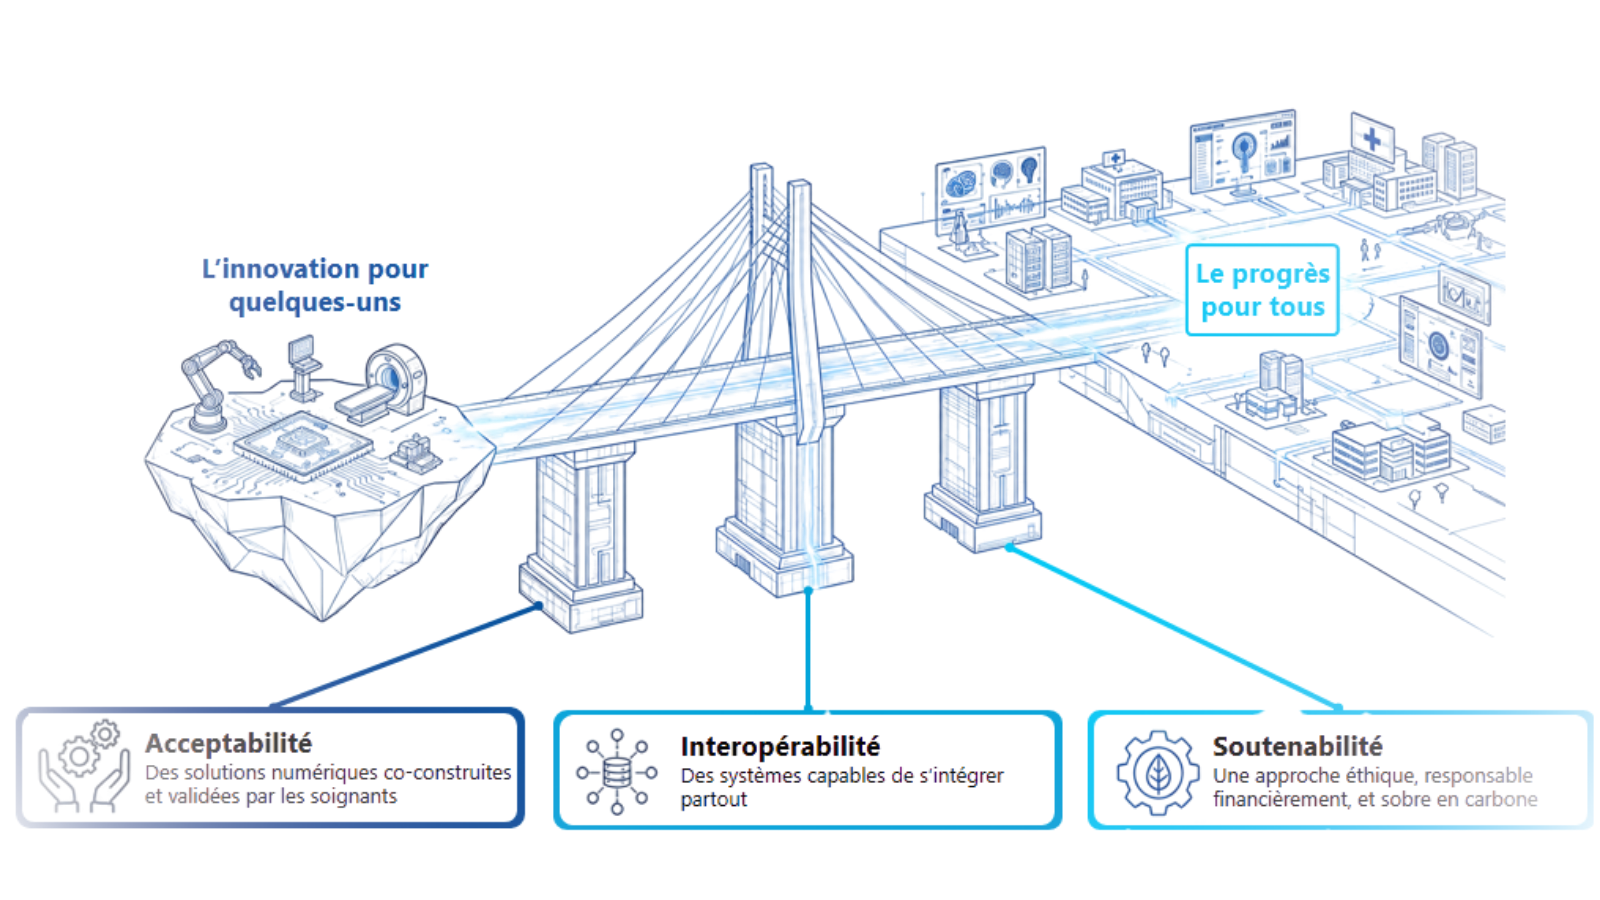
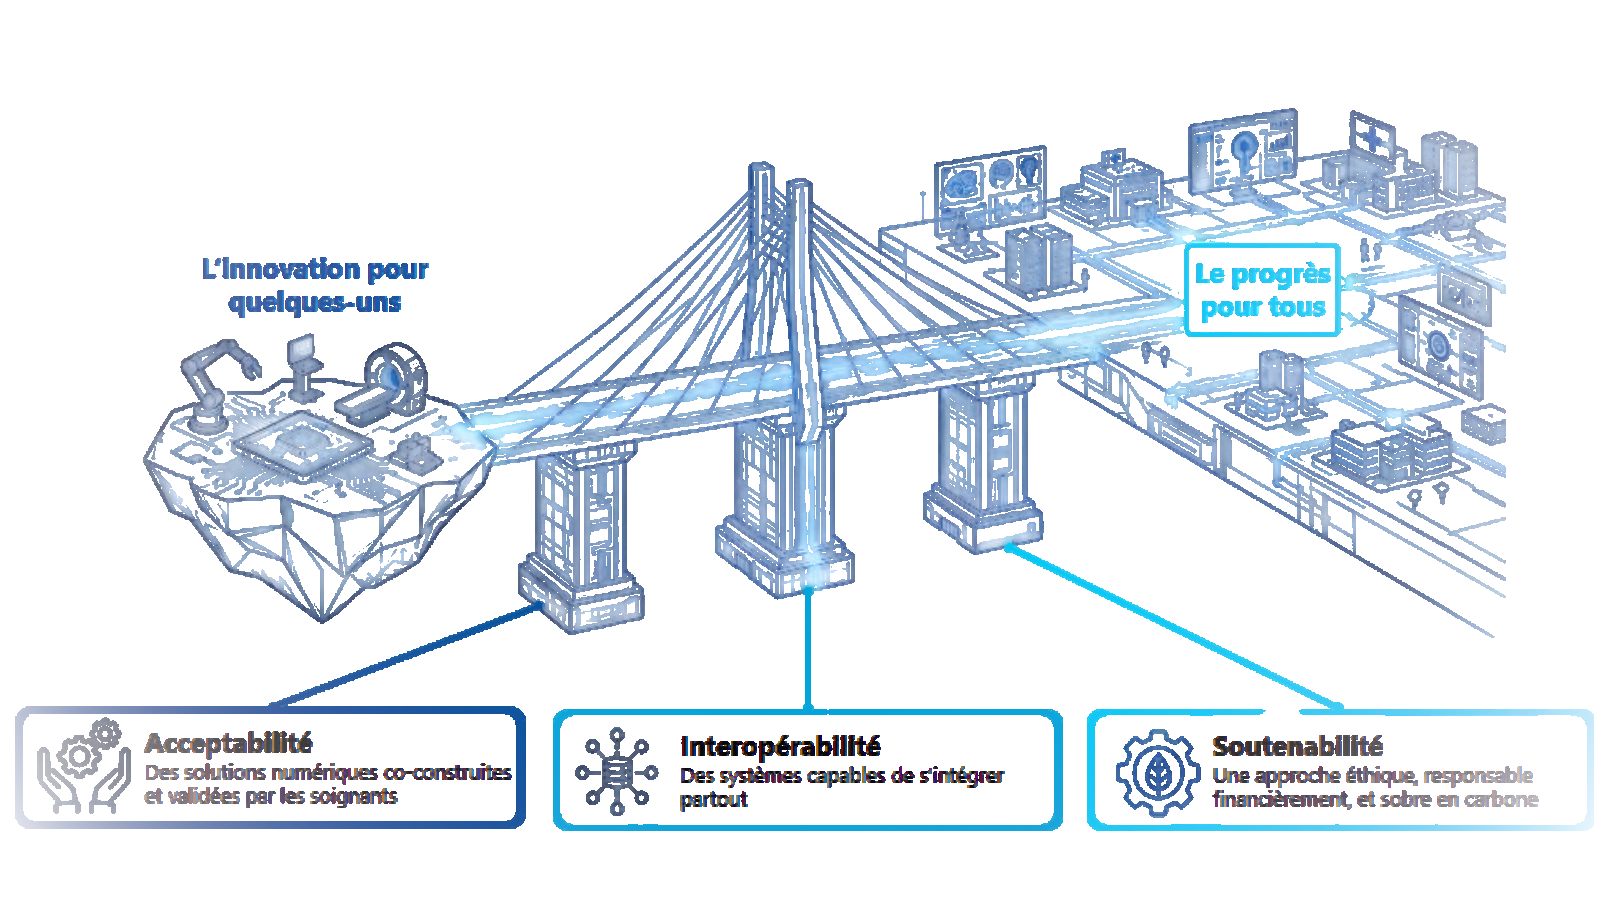
Fix vision diagram alpha fade, small copy/layout changes, batch of mobile bugs
- Vision diagram: thresholded the alpha channel so partially-transparent
  pixels become fully opaque (removes a genuine transparency-based fade
  baked into the PNG). The remaining paleness on the "progrès pour tous"
  side is the artwork's own color choice, not something CSS or alpha
  can fix without redrawing it.
- Homepage: "En savoir plus : tous nos projets, phase par phase" ->
  "Voir tous nos projets"; removed the "Découvrir l'équipe" button
  (and its now-dead .link-arrow CSS).
- Projects page: intro text and phases diagram now side by side instead
  of stacked (collapses to stacked below 40rem).

Mobile bug batch:
- Nav dropdown panels never actually opened on any viewport - the
  mobile media query overriding them sat BEFORE the unconditional base
  rule in source order, so the later same-specificity base rule always
  won (the exact "late CSS wins ties" trap already documented). Moved
  the media query after the base rules it needs to override.
- Homepage background gradient used desktop-only fixed-px anchors
  (664px/3700px); on mobile the opaque hero+stat-band zone is actually
  ~1066px tall and #equipe starts around ~6098px, so the ramp was
  already ~13% into blue before any content was visible - added a
  mobile-specific re-anchored gradient (1080px/5950px).
- h1 and .stat-value used fixed sizes (var(--text-2xl), 52px) with no
  mobile scaling - h1 ended up smaller than h2 on phones, and stat
[…]

diff --git a/site/src/styles/site.css b/site/src/styles/site.css
@@ -95,6 +95,25 @@ main {
   );
 }
 
+/* Same gradient, re-anchored for mobile: the hero's text and the stat
+   band both wrap onto more lines on a narrow screen, so the opaque zone
+   at the top is taller (~1066px measured at 375px wide, not 664px) and
+   #equipe starts much further down (~6098px, not ~3786px) since every
+   section stacks single-column instead of side-by-side. Reusing the
+   desktop anchors left the ramp already ~13% into blue before any
+   content was even visible, reading as "gradient too dark" on phones.
+   Re-measure both anchors here if mobile section heights change. */
+@media (max-width: 40rem) {
+  main {
+    background: linear-gradient(
+      180deg,
+      #ffffff 0px,
+      #ffffff 1080px,
+      color-mix(in srgb, var(--bopa-blue-2) 35%, white) 5950px
+    );
+  }
+}
+
 h1, h2, h3 {
   font-family: var(--font-display);
   line-height: 1.05;
@@ -103,7 +122,13 @@ h1, h2, h3 {
   margin-bottom: var(--space-3);
 }
 
-h1 { font-size: var(--text-2xl); }
+/* --text-2xl (3.25rem) is a flat value, not a clamp like --text-xl -
+   fine on desktop, but with no floor it stayed a fixed 52px right down
+   to phone width on every page using the plain h1 (innovations,
+   boptech, publications - the homepage's own .hero h1 already has its
+   own clamp). clamp() here keeps desktop identical (6vw already exceeds
+   3.25rem above ~866px) and only scales the phone/tablet range down. */
+h1 { font-size: clamp(2rem, 6vw, var(--text-2xl)); }
 h2 { font-size: var(--text-xl); }
 h3 { font-size: var(--text-lg); }
 
@@ -285,64 +310,6 @@ button {
   transform: translateY(-7px) rotate(-45deg);
 }
 
-/* Full nav row only fits one line down to ~76rem in practice (5 links +
-   the "Nos innovations" dropdown trigger + the CTA button); below that
-   it used to wrap onto 2-3 lines and bloat the header - on a phone it
-   wrapped onto 7 lines and pushed the header past 300px tall. Collapse
-   behind a hamburger for that whole range instead of letting it wrap. */
-@media (max-width: 76rem) {
-  .nav-toggle {
-    display: flex;
-  }
-
-  .site-header nav {
-    display: none;
-    position: absolute;
-    top: 100%;
-    left: 0;
-    right: 0;
-    flex-direction: column;
-    align-items: stretch;
-    gap: 2px;
-    background: #fff;
-    padding: var(--space-3) var(--space-4) var(--space-4);
-    box-shadow: 0 20px 40px rgba(4, 35, 56, 0.14);
-    max-height: calc(100vh - 100%);
-    overflow-y: auto;
-  }
-
-  .site-header nav.is-open {
-    display: flex;
-  }
-
-  .site-header nav > a,
-  .nav-dropdown-trigger {
-    width: 100%;
-    justify-content: flex-start;
-  }
-
-  .nav-dropdown-panel {
-    position: static;
-    box-shadow: none;
-    margin-top: 0;
-    padding-left: var(--space-3);
-    opacity: 1;
-    visibility: visible;
-    transform: none;
-    transition: none;
-    max-height: 0;
-    overflow: hidden;
-    padding-top: 0;
-    padding-bottom: 0;
-  }
-
-  .nav-dropdown.is-open .nav-dropdown-panel {
-    max-height: 20rem;
-    padding-top: var(--space-1);
-    padding-bottom: var(--space-1);
-  }
-}
-
 .site-header nav > a,
 .nav-dropdown-trigger {
   display: inline-flex;
@@ -433,6 +400,68 @@ button {
 .nav-dropdown-panel a:hover {
   background: var(--color-bg-tint);
   color: var(--color-accent);
+}
+
+/* Full nav row only fits one line down to ~76rem in practice (5 links +
+   the "Nos innovations" dropdown trigger + the CTA button); below that
+   it used to wrap onto 2-3 lines and bloat the header - on a phone it
+   wrapped onto 7 lines and pushed the header past 300px tall. Collapse
+   behind a hamburger for that whole range instead of letting it wrap.
+   This block must come AFTER the base .nav-dropdown-panel rules above -
+   it previously sat before them, so the later, unconditional base rule
+   (same specificity) silently won the cascade at every width and the
+   mobile dropdown panels never actually became visible when opened. */
+@media (max-width: 76rem) {
+  .nav-toggle {
+    display: flex;
+  }
+
+  .site-header nav {
+    display: none;
+    position: absolute;
+    top: 100%;
+    left: 0;
+    right: 0;
+    flex-direction: column;
+    align-items: stretch;
+    gap: 2px;
+    background: #fff;
+    padding: var(--space-3) var(--space-4) var(--space-4);
+    box-shadow: 0 20px 40px rgba(4, 35, 56, 0.14);
+    max-height: calc(100vh - 100%);
+    overflow-y: auto;
+  }
+
+  .site-header nav.is-open {
+    display: flex;
+  }
+
+  .site-header nav > a,
+  .nav-dropdown-trigger {
+    width: 100%;
+    justify-content: flex-start;
+  }
+
+  .nav-dropdown-panel {
+    position: static;
+    box-shadow: none;
+    margin-top: 0;
+    padding-left: var(--space-3);
+    opacity: 1;
+    visibility: visible;
+    transform: none;
+    transition: none;
+    max-height: 0;
+    overflow: hidden;
+    padding-top: 0;
+    padding-bottom: 0;
+  }
+
+  .nav-dropdown.is-open .nav-dropdown-panel {
+    max-height: 20rem;
+    padding-top: var(--space-1);
+    padding-bottom: var(--space-1);
+  }
 }
 
 /* Couleur/animation : .btn-filled-premium, partagée avec le hero.
@@ -803,6 +832,7 @@ button {
   color: var(--color-muted);
   font-size: var(--text-sm);
   margin-top: var(--space-1);
+  text-align: center;
 }
 
 /* Auto-advancing project carousel: one project at a time, tagged by
@@ -932,7 +962,7 @@ button {
 
 .stat-row .stat-value {
   font-family: var(--font-display);
-  font-size: var(--text-2xl);
+  font-size: clamp(2rem, 6vw, var(--text-2xl));
   font-weight: 700;
   line-height: 1;
   color: var(--color-accent);
